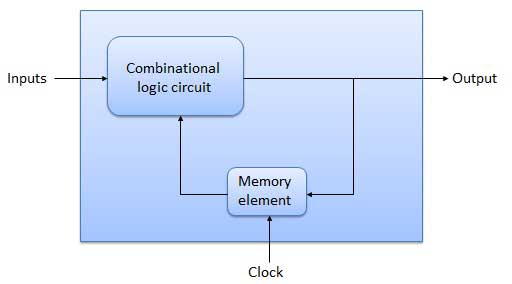
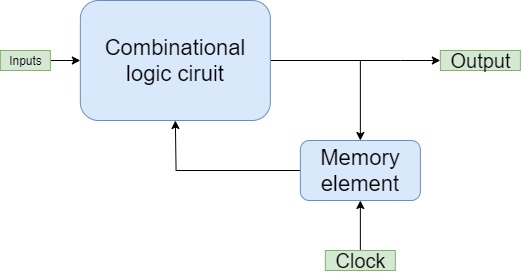
Fix plagiarism in 'Digital Sequential Circuits' page
* The text which was plagiarised is changed
* New image has been replaced by plagiarised image

diff --git a/docs/sequential.md b/docs/sequential.md
@@ -8,43 +8,38 @@ nav_order: 11
 # Digital Sequential Circuits
 {: .no_toc }
 
-The combinational circuit does not use any memory. 
-Hence the previous state of input does not have any effect on the present state of the circuit. 
-But sequential circuit has memory so output can vary based on input. This type of circuits uses previous input, output, clock and a memory element.
+In Combinational circuits there is no use of any memory. Therfore, The circuit's present state is not affected by the previous state's input.
+But, in Sequential circuits there is a memory, so the output can change(affect) based on the input. These types of circuits use a memory element, clock,output, and their previous input.
 
 <div style="text-align:center"><img src="../assets/images/sequential_circuit_blockdiagram.jpg" /></div>
 
-This sequential circuit contains a set of inputs and output(s). 
-The output(s) of sequential circuit depends not only on the combination of present inputs but also on the previous output(s). 
-Previous output is nothing but the present state. 
-Therefore, sequential circuits contain combinational circuits along with memory (storage) elements. 
-Some sequential circuits may not contain combinational circuits, but only memory elements.
+The above figure's Sequential circuit has some inputs, and some output(s). The output(s) of a sequential circuit does not only depend on combination of the present inputs, but also on the previous output(s). So, we can say that the present state has the previous output also. Hence, Sequential circuits also have Combinational circuits with memory/storage elements, but there are some Sequential circuits which may not contain Combinational circuits, but only memory/storage elements.
 
-Following table shows the **differences** between combinational circuits and sequential circuits.
+The below table shows some **differences** between the Sequential and Combinational circuits.
 
 |   Combinational Circuits    |    Sequential Circuits     |
 |:----------------------------|:---------------------------|
-|Outputs depend only on present inputs.|Outputs depend on both present inputs and present state.|
-|Feedback path is not present.|Feedback path is present.|
-|Memory elements are not required.|Memory elements are required.|
-|Clock signal is not required.	|Clock signal is required.|
-|Easy to design.|Difficult to design.|
+|The outputs are dependent only on present inputs.|The outputs are dependent on the present inputs and and also on present state.|
+|There is feedback path ..|There is a feedback path.|
+|Memory elements aren't necessary.|Memory elements are necessary.|
+|The clock signal isn't required.	|The clock signal is required.|
+|It easy to design.|It difficult to design.|
 
 
 ## Types of Sequential Circuits
 
-Following are the two types of sequential circuits −
+There are 2 types of Sequential circuits−
 
-* Asynchronous sequential circuits
-* Synchronous sequential circuits
+* Asynchronous Sequential circuits
+* Synchronous Sequential circuits
 
-### Asynchronous sequential circuits
+### Asynchronous Sequential Circuits
 
-If some or all the outputs of a sequential circuit do not change (affect) with respect to active transition of clock signal, then that sequential circuit is called as Asynchronous sequential circuit. That means, all the outputs of asynchronous sequential circuits do not change (affect) at the same time. Therefore, most of the outputs of asynchronous sequential circuits are not in synchronous with either only positive edges or only negative edges of clock signal.
+Asynchronous Sequential circuits are Sequential circuits, in which the some/all outputs don't change(affect) with the the active transition of the clock signal, which means the outputs of these circuits do not change(affect) at same time. Hence, most outputs of these circuits are not in Synchronous with- only positive(+) edges or negative(-) edges of the Clock signal.
 
 ### Synchronous sequential circuits
 
-If all the outputs of a sequential circuit change (affect) with respect to active transition of clock signal, then that sequential circuit is called as Synchronous sequential circuit. That means, all the outputs of synchronous sequential circuits change (affect) at the same time. Therefore, the outputs of synchronous sequential circuits are in synchronous with either only positive edges or only negative edges of clock signal.
+Synchronous Sequential circuits are Sequential circuits, in which all the outputs change(affect) with the the active transition of the Clock signal, which means the outputs of these circuits change(affect) at same time. Hence, the outputs of these circuits are in synchronous with- only positive(+) edges or negative(-) edges of the Clock signal.
 
 
 {% include disqus.html %}
